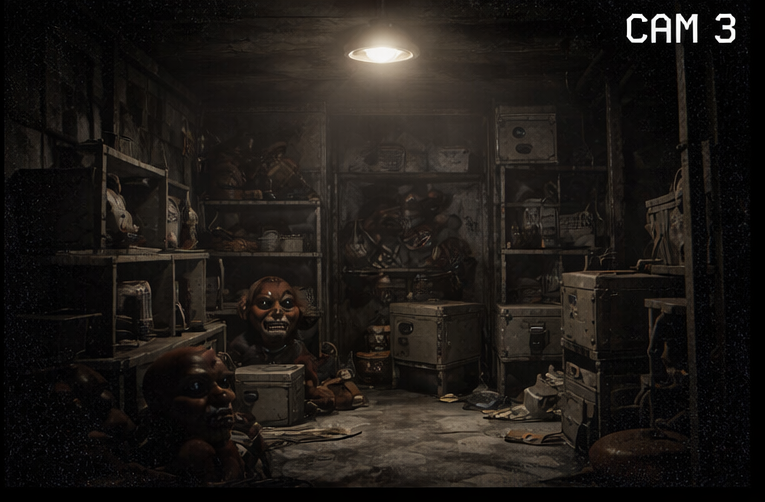
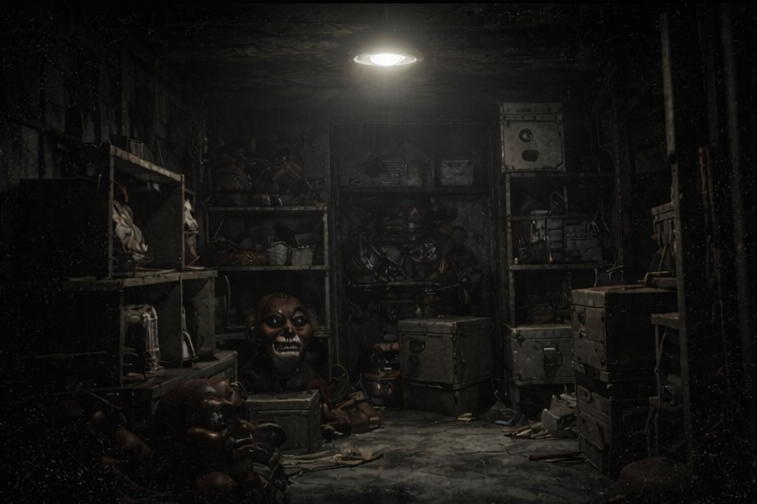
změna freddyho na epsteina, a zmena v kodu

diff --git a/game.py b/game.py
@@ -34,9 +34,14 @@ cam_images = {
     1: pygame.transform.scale(pygame.image.load("assets/cam1.png"), (width, height)),
     2: pygame.transform.scale(pygame.image.load("assets/cam2.png"), (width, height)),
     3: pygame.transform.scale(pygame.image.load("assets/cam3.png"), (width, height)),
+    4: pygame.transform.scale(pygame.image.load("assets/cam4.png"), (width, height)),
 }
 
-fred_img = pygame.image.load("assets/fred.png").convert_alpha()
+fred_imgs = {
+    1: pygame.image.load("assets/eps1.png"),
+    2: pygame.image.load("assets/eps2.png").convert_alpha(),
+    3: pygame.image.load("assets/eps3.png")         
+}          
 bon_img = pygame.image.load("assets/bonnie.png"). convert_alpha()
 
 jumpscare_freddy_img = pygame.transform.scale(
@@ -101,35 +106,38 @@ movement_oppurtunity_fred = 0
 fred_AI = random.randint(1, 4)
 
 def fred_move():
-    global movement_oppurtunity_fred, fred_AI, fred_pos, wait_start_time    
+    if game_state != "menu":
+        if game_state != "loading":
+        
+            global movement_oppurtunity_fred, fred_AI, fred_pos, wait_start_time    
 #====== ATTACK CHECK ====
-    
-    fred_loc = fred_rooms[fred_pos]
-    if fred_loc == "door":
-        if left_door_closed:
-            fred_pos = 0
-            wait_start_time = pygame.time.get_ticks()
-        else:
-            game_over()
+        
+            fred_loc = fred_rooms[fred_pos]
+            if fred_loc == "door":
+                if left_door_closed:
+                    fred_pos = 0
+                    wait_start_time = pygame.time.get_ticks()
+                else:
+                    game_over()
 
-    if wait_start_time == 0:
-            wait_start_time = pygame.time.get_ticks()
+            if wait_start_time == 0:
+                    wait_start_time = pygame.time.get_ticks()
 
-    wait_fred = pygame.time.get_ticks() - wait_start_time
+            wait_fred = pygame.time.get_ticks() - wait_start_time
 
-    if wait_fred > 7000:
-        wait_start_time = pygame.time.get_ticks()
+            if wait_fred > 7000:
+                wait_start_time = pygame.time.get_ticks()
 
-        movement_oppurtunity_fred = random.randint(1, 20)
-        print(movement_oppurtunity_fred, fred_AI)
-        print(fred_pos)
+                movement_oppurtunity_fred = random.randint(1, 20)
+                print(movement_oppurtunity_fred, fred_AI)
+                print(fred_pos)
 
-        if movement_oppurtunity_fred <= fred_AI:
-            fred_pos += 1
+                if movement_oppurtunity_fred <= fred_AI:
+                    fred_pos += 1
 
-            if fred_pos >= len(fred_rooms):
-                fred_pos -= 1
-            wait_start_time = pygame.time.get_ticks()  # RESET TIMERU
+                    if fred_pos >= len(fred_rooms):
+                        fred_pos -= 1
+                    wait_start_time = pygame.time.get_ticks()  # RESET TIMERU
 # ======= BONNIE ====
 bon_rooms = [1, 2, 3, "door"]
 bon_pos = 0
@@ -245,6 +253,8 @@ while True:
                 if event.key == pygame.K_3:
                     current_camera = 3
                     #sound_cam.play()
+                if event.key == pygame.K_4:
+                    current_camera = 4
 
             # Dveře
             if event.key == pygame.K_d and game_state == "office":
@@ -326,11 +336,11 @@ while True:
             fred_pos -= 1
         if fred_loc == current_camera:
             if fred_loc == 1:
-                screen.blit(fred_img, (width / 2.67, height / 2))
+                screen.blit(fred_imgs[1], (width / 3.67, height / 2))
             if fred_loc == 2:
-                screen.blit(fred_img, (width / 2.67, height / 2))
+                screen.blit(fred_imgs[2], (width / 3, height / 3))
             if fred_loc == 3:
-                screen.blit(fred_img, (width / 2.67, height / 2))
+                screen.blit(fred_imgs[3], (width / 2.67, height / 3))
         # Bonnie kamery
         bon_loc = bon_rooms[bon_pos]
         if bon_pos >= len(bon_rooms):
@@ -339,7 +349,7 @@ while True:
             if bon_loc == 1:
                 screen.blit(bon_img, (width / 2.67, height / 2))
             if bon_loc == 2:
-                screen.blit(bon_img, (width / 2.67, height / 2))
+                screen.blit(bon_img, (width / 1, height / 1))
             if bon_loc == 3:
                 screen.blit(bon_img, (width / 2.67, height / 2))
 
